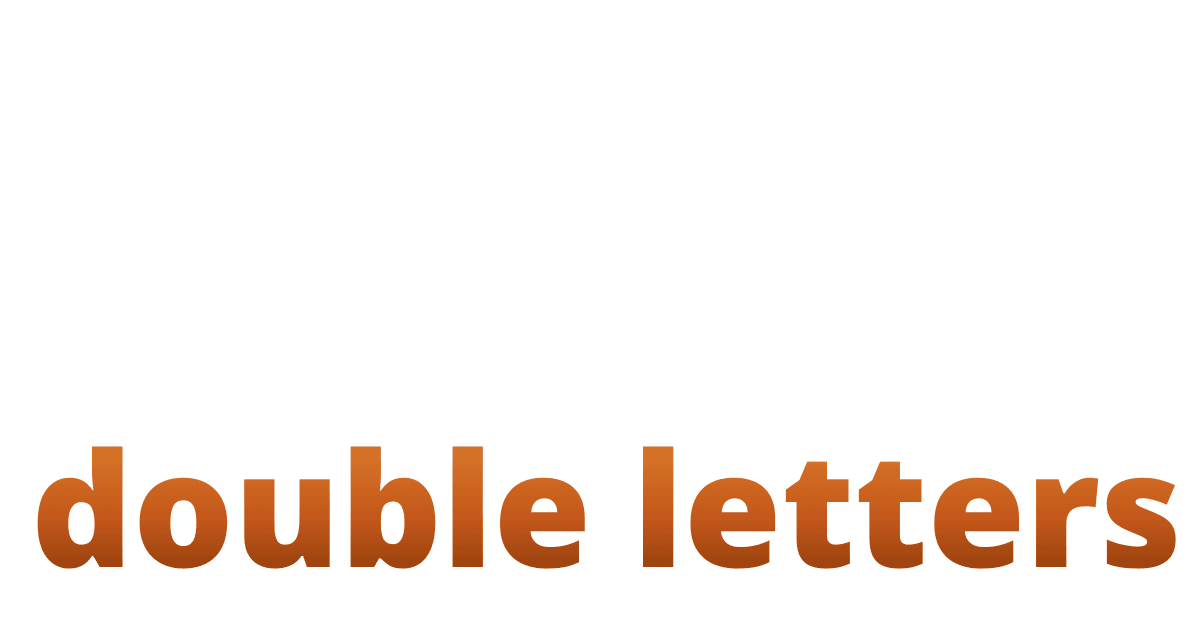
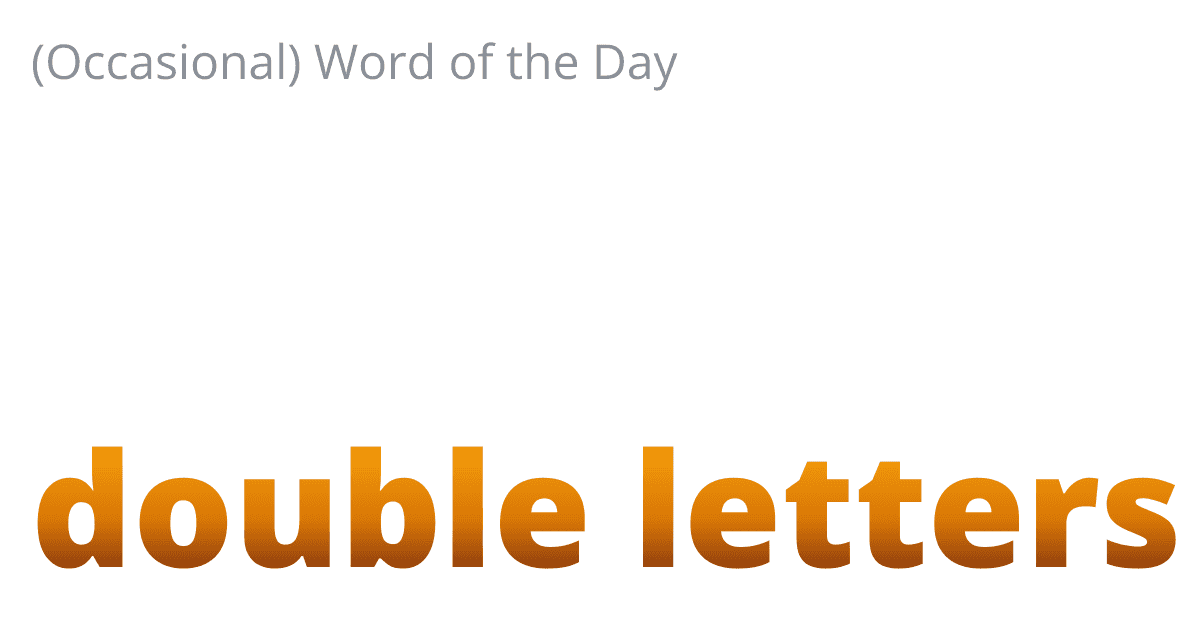
Fix theme color abstraction and workflow integration
- Replace theme.ts with build-time color constants via vite.define
- Add marigold theme colors to environment variables with quoted hash values
- Update image generation to use process.env colors directly
- Fix workflow to use npm commands instead of direct node calls
- Remove deprecated theme config and re-export patterns
- Add new theme.css for static design tokens

🤖 Generated with [Claude Code](https://claude.ai/code)

Changed region(s): [[0.0308, 0.6937, 0.4933, 0.8444], [0.5242, 0.6937, 0.9867, 0.8444], [0.0, 0.0603, 0.5858, 0.1508]]

diff --git a/tools/utils.ts b/tools/utils.ts
@@ -4,7 +4,13 @@ import path from 'path';
 import sharp from 'sharp';
 
 import { paths } from '~config/paths';
-import { theme } from '~config/theme';
+// Colors for image generation
+const imageColors = {
+  primary: process.env.COLOR_PRIMARY || '#4a5d4a',
+  primaryLight: process.env.COLOR_PRIMARY_LIGHT || '#5a6d5a',
+  primaryDark: process.env.COLOR_PRIMARY_DARK || '#3a4d3a',
+  textLighter: '#8a8f98',
+};
 import { logger } from '~utils/logger';
 
 
@@ -271,20 +277,20 @@ export function createWordSvg(word: string, date: string): string {
 
     <defs>
         <linearGradient id="wordGradient" x1="0" y1="0" x2="0" y2="1">
-            <stop offset="0%" stop-color="${theme.imageGradient.light}"/>
-            <stop offset="60%" stop-color="${theme.imageGradient.default}"/>
-            <stop offset="100%" stop-color="${theme.imageGradient.dark}"/>
+            <stop offset="0%" stop-color="${imageColors.primaryLight}"/>
+            <stop offset="60%" stop-color="${imageColors.primary}"/>
+            <stop offset="100%" stop-color="${imageColors.primaryDark}"/>
         </linearGradient>
     </defs>
 
     <!-- Site title -->
     <g transform="translate(${PADDING}, ${PADDING + TITLE_SIZE})">
-        <path d="${titleText.pathData}" fill="${theme.colors.textLighter}"${titleText.transform}/>
+        <path d="${titleText.pathData}" fill="${imageColors.textLighter}"${titleText.transform}/>
     </g>
 
     <!-- Date -->
     <g transform="translate(${PADDING}, ${PADDING + TITLE_SIZE + DATE_SIZE + 16})">
-        <path d="${dateText.pathData}" fill="${theme.colors.textLighter}"${dateText.transform}/>
+        <path d="${dateText.pathData}" fill="${imageColors.textLighter}"${dateText.transform}/>
     </g>
 
     <!-- Main word -->
@@ -345,15 +351,15 @@ export function createGenericSvg(title: string): string {
 
     <defs>
         <linearGradient id="wordGradient" x1="0" y1="0" x2="0" y2="1">
-            <stop offset="0%" stop-color="${theme.imageGradient.light}"/>
-            <stop offset="60%" stop-color="${theme.imageGradient.default}"/>
-            <stop offset="100%" stop-color="${theme.imageGradient.dark}"/>
+            <stop offset="0%" stop-color="${imageColors.primaryLight}"/>
+            <stop offset="60%" stop-color="${imageColors.primary}"/>
+            <stop offset="100%" stop-color="${imageColors.primaryDark}"/>
         </linearGradient>
     </defs>
 
     <!-- Site title -->
     <g transform="translate(${PADDING}, ${PADDING + TITLE_SIZE})">
-        <path d="${titleText.pathData}" fill="${theme.colors.textLighter}"${titleText.transform}/>
+        <path d="${titleText.pathData}" fill="${imageColors.textLighter}"${titleText.transform}/>
     </g>
 
     <!-- Main word -->

diff --git a/src/styles/theme.css b/src/styles/theme.css
@@ -1,0 +1,40 @@
+/* Theme CSS Variables - Static Values */
+:root {
+  /* Font weights */
+  --font-weight-light: 300;
+  --font-weight-normal: 400;
+  --font-weight-medium: 500;
+  --font-weight-semibold: 600;
+  --font-weight-bold: 700;
+  --font-weight-extrabold: 800;
+
+  /* Font sizes */
+  --font-size-xs: 0.75rem;
+  --font-size-small: clamp(0.875rem, 2vw, 1rem);
+  --font-size-base: clamp(1rem, 2.5vw, 1.125rem);
+  --font-size-huge: clamp(3rem, 15vw, 8rem);
+
+  /* Spacing */
+  --spacing-small: 0.5rem;
+  --spacing-base: 1rem;
+  --spacing-large: 2rem;
+
+  /* Content widths */
+  --content-width-small: min(600px, 90vw);
+  --content-width-medium: min(800px, 90vw);
+  --content-width-large: min(1200px, 90vw);
+  --content-width-full: 95vw;
+
+  /* Background colors */
+  --color-background: #fff;
+  --color-background-light: #f8f9fa;
+
+  /* Text colors */
+  --color-text: #333;
+  --color-text-light: #666;
+  --color-text-lighter: #8a8f98;
+
+  /* Other design tokens */
+  --border-radius: 8px;
+  --shadow-color: 186deg 47% 28%;
+}

diff --git a/tools/generate-word-data.ts b/tools/generate-word-data.ts
@@ -3,7 +3,8 @@ import fs from 'fs';
 import { getAdapter } from '~adapters/factory';
 import { paths } from '~config/paths';
 
-import { generateWordDataHash,getAllWordFiles, getAllWords, updateWordFile } from './word-data-utils';
+import { getAllWordFiles, getAllWords, updateWordFile } from '~tools/utils';
+import { generateWordDataHash } from '~utils/word-data-utils';
 
 /**
  * Reprocesses all word data with fresh API data from the configured dictionary adapter

diff --git a/tools/generate-generic-images.ts b/tools/generate-generic-images.ts
@@ -1,5 +1,6 @@
-import { getStaticPages } from '../src/utils/page-utils';
-import { generateGenericShareImage, getAvailableYears } from './word-data-utils';
+import { getStaticPages } from '~utils/page-utils';
+import { generateGenericShareImage } from '~tools/utils';
+import { getAvailableYears } from '~utils/word-data-utils';
 
 /**
  * Generates social share images for all static pages including year archives and special pages

diff --git a/types/vite.d.ts b/types/vite.d.ts
@@ -10,3 +10,6 @@ declare const __HUMANS_WORD_CURATOR__: string;
 declare const __HUMANS_DEVELOPER_NAME__: string;
 declare const __HUMANS_DEVELOPER_CONTACT__: string;
 declare const __HUMANS_DEVELOPER_SITE__: string;
+declare const __COLOR_PRIMARY__: string;
+declare const __COLOR_PRIMARY_LIGHT__: string;
+declare const __COLOR_PRIMARY_DARK__: string;

diff --git a/tools/generate-word-images.ts b/tools/generate-word-images.ts
@@ -4,7 +4,7 @@ import sharp from 'sharp';
 
 import { paths } from '~config/paths';
 
-import { createWordSvg, getAllWords, isUsingDemoWords } from './word-data-utils';
+import { getAllWords, isUsingDemoWords, generateShareImage, createWordSvg } from '~tools/utils';
 
 /**
  * Generates social share images for all words in the collection

diff --git a/tools/generate-page-image.ts b/tools/generate-page-image.ts
@@ -1,5 +1,5 @@
-import { getStaticPages } from '../src/utils/page-utils';
-import { generateGenericShareImage } from './word-data-utils';
+import { getStaticPages } from '~utils/page-utils';
+import { generateGenericShareImage } from '~tools/utils';
 
 /**
  * Generates a social share image for a specific page

diff --git a/eslint.config.js b/eslint.config.js
@@ -34,6 +34,9 @@ export default [
         __SITE_ID__: 'readonly',
         __TIMESTAMP__: 'readonly',
         __VERSION__: 'readonly',
+        __COLOR_PRIMARY__: 'readonly',
+        __COLOR_PRIMARY_LIGHT__: 'readonly',
+        __COLOR_PRIMARY_DARK__: 'readonly',
       },
     },
     rules: {

diff --git a/src/pages/robots.txt.ts b/src/pages/robots.txt.ts
@@ -1,6 +1,6 @@
 import type { APIRoute } from 'astro';
 
-import { generateRobotsTxt } from '../utils/static-file-utils';
+import { generateRobotsTxt } from '~utils/static-file-utils';
 
 export const GET: APIRoute = () => {
   const siteUrl = import.meta.env.SITE_URL || 'http://localhost:4321';

diff --git a/src/pages/health.txt.ts b/src/pages/health.txt.ts
@@ -1,6 +1,6 @@
 import type { APIRoute } from 'astro';
 
-import { generateHealthTxt } from '../utils/static-file-utils';
+import { generateHealthTxt } from '~utils/static-file-utils';
 
 export const GET: APIRoute = () => {
   const healthTxt = generateHealthTxt();

diff --git a/src/pages/humans.txt.ts b/src/pages/humans.txt.ts
@@ -1,6 +1,6 @@
 import type { APIRoute } from 'astro';
 
-import { generateHumansTxt } from '../utils/static-file-utils';
+import { generateHumansTxt } from '~utils/static-file-utils';
 
 export const GET: APIRoute = () => {
   const humansTxt = generateHumansTxt();

diff --git a/tools/generate-word-image.ts b/tools/generate-word-image.ts
@@ -1,4 +1,4 @@
-import { generateShareImage, getWordByName } from './word-data-utils';
+import { generateShareImage, getWordByName } from '~tools/utils';
 
 /**
  * Command-line script to generate a social share image for a specific word
